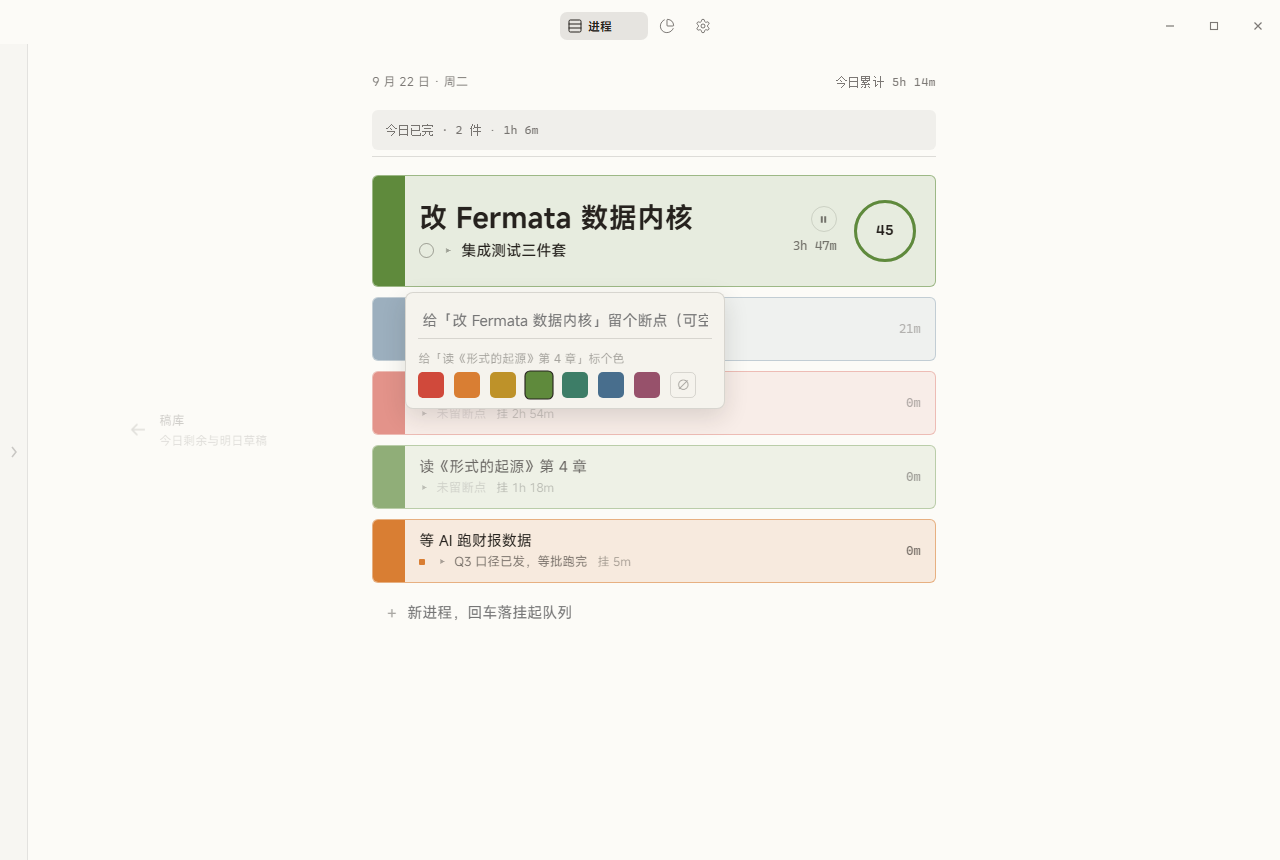
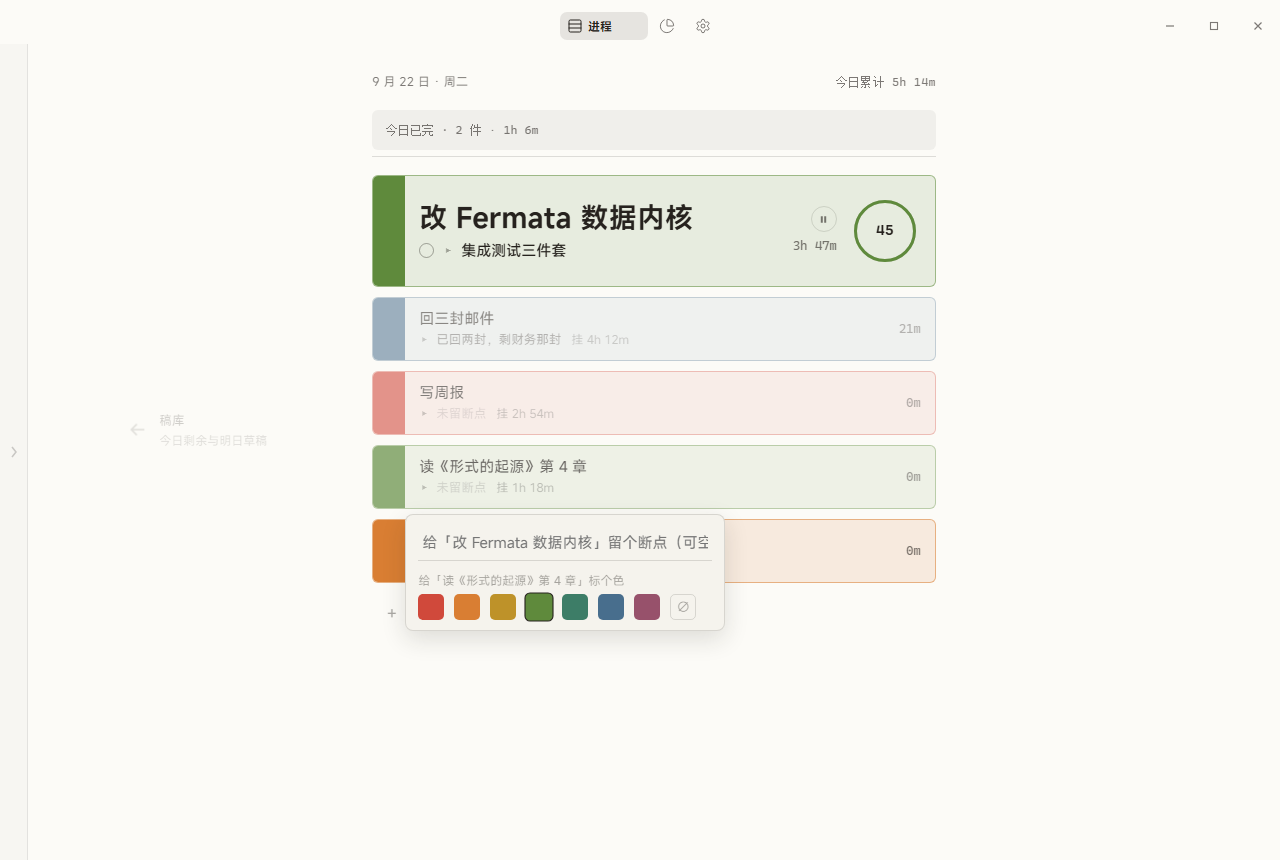
修正：断点卡贴被点行下方（点击路径），portal 保留治 transform 劫持；加底沿钳制

Changed region(s): [[0.3125, 0.3628, 0.5625, 0.4837], [0.3125, 0.6047, 0.5625, 0.7256]]

diff --git a/src/components/SuspendedRow.tsx b/src/components/SuspendedRow.tsx
@@ -112,11 +112,8 @@ export function SuspendedQueue({
       setDrag(null);
       if (!moved) {
         const main = (ev.target as HTMLElement).closest("[data-pid-main]");
-        if (main) {
-          // 断点卡锚活跃行下方（与拖到活跃位同待遇），不锚被点行
-          const activeEl = document.querySelector("[data-testid='active-row'] .row-main");
-          onRequestSwitch(pid, activeEl?.getBoundingClientRect() ?? main.getBoundingClientRect());
-        }
+        // 点击：断点卡贴被点行下方（portal 到 body，fixed 坐标不被页面过渡的 transform 劫持）
+        if (main) onRequestSwitch(pid, main.getBoundingClientRect());
         return;
       }
       if (cur.overActive) {

diff --git a/src/pages/BoardPage.tsx b/src/pages/BoardPage.tsx
@@ -115,7 +115,7 @@ export function BoardPage() {
         return;
       }
       if (at.overActive && board.running) {
-        // 激活语义：断点卡从原活跃行下方展开（与点击切换同待遇）
+        // 激活语义：落到活跃位时断点卡从活跃行下方展开（点击切换则贴被点行下方）
         const activeEl = innerRef.current?.querySelector("[data-testid='active-row'] .row-main");
         setPendingSwitch({ pid, rect: activeEl?.getBoundingClientRect() ?? new DOMRect(80, 200, 10, 10) });
         return;

diff --git a/src/components/MicroCards.tsx b/src/components/MicroCards.tsx
@@ -38,7 +38,8 @@ export function BreakpointCard({
       style={{
         position: "fixed",
         left: Math.min(rect.left, window.innerWidth - 340),
-        top: rect.bottom + 6,
+        // 贴被点行下方；贴近窗口底沿时钳住（卡高约 150px）
+        top: Math.min(rect.bottom + 6, window.innerHeight - 150),
       }}
     >
       <input

diff --git a/docs/deviation.md b/docs/deviation.md
@@ -262,7 +262,7 @@ B1 我归因为"拖拽区盖导航"——源码核查排除：Tauri 2.11.5 drag.
 - 临时措：run-dev.bat 改为先 pnpm build 再 tauri dev，构建失败即中止不弹旧界面。代价：每次启动 +数秒构建；devUrl 修复后撤掉此步恢复热更。
 
 ### D54 · 断点卡锚点修正 + 卡内标色 + 条目改文（feature/board-polish）
-- 断点卡点击路径原来锚"被点行"（视觉上飘在队列中部），改锚活跃行下方（与拖到活跃位同待遇）；并 portal 到 body——页面过渡容器的 transform 会劫持 fixed 定位（实测系统性偏移 +28/+44），同 D42 规则。
+- 断点卡"飘"的根因：页面过渡容器的 transform 劫持 fixed 定位（实测系统性偏移 +28/+44）。修法 = portal 到 body（同 D42 规则）；锚点保持点击路径贴**被点行**下方（用户纠偏：不是活跃行），拖到活跃位仍锚活跃行；加窗口底沿钳制。
 - 范围扩张留痕：进程页断点卡内加"给「新进程」标个色"（7 色 + 无色，点色即生效、卡片不关，Enter 仍只确认断点；Esc 取消切换不回滚已标色；点色 onMouseDown preventDefault 保输入框焦点）。AGENTS.md 后置项"切换浮层快捷标色"字面保留——那是 Alt+Q 浮层的事，本条是进程页。
 - 详情栏步骤栈条目可就地改文（InlineEdit 双态；空提交=放弃；编辑中禁拖行；拖行后吃掉尾随点击）。CONTEXT.md"条目均可删除"→"均可就地改文、删除"。
 - 卡片高度维持不变：活跃卡 min-height 112 可随长标题长高（实测 134），挂起行 64 等距不动、断点行单行省略（全文进详情栏）——等距是队列的版面纪律，且拖拽定位数学依赖 ROW_PITCH。
